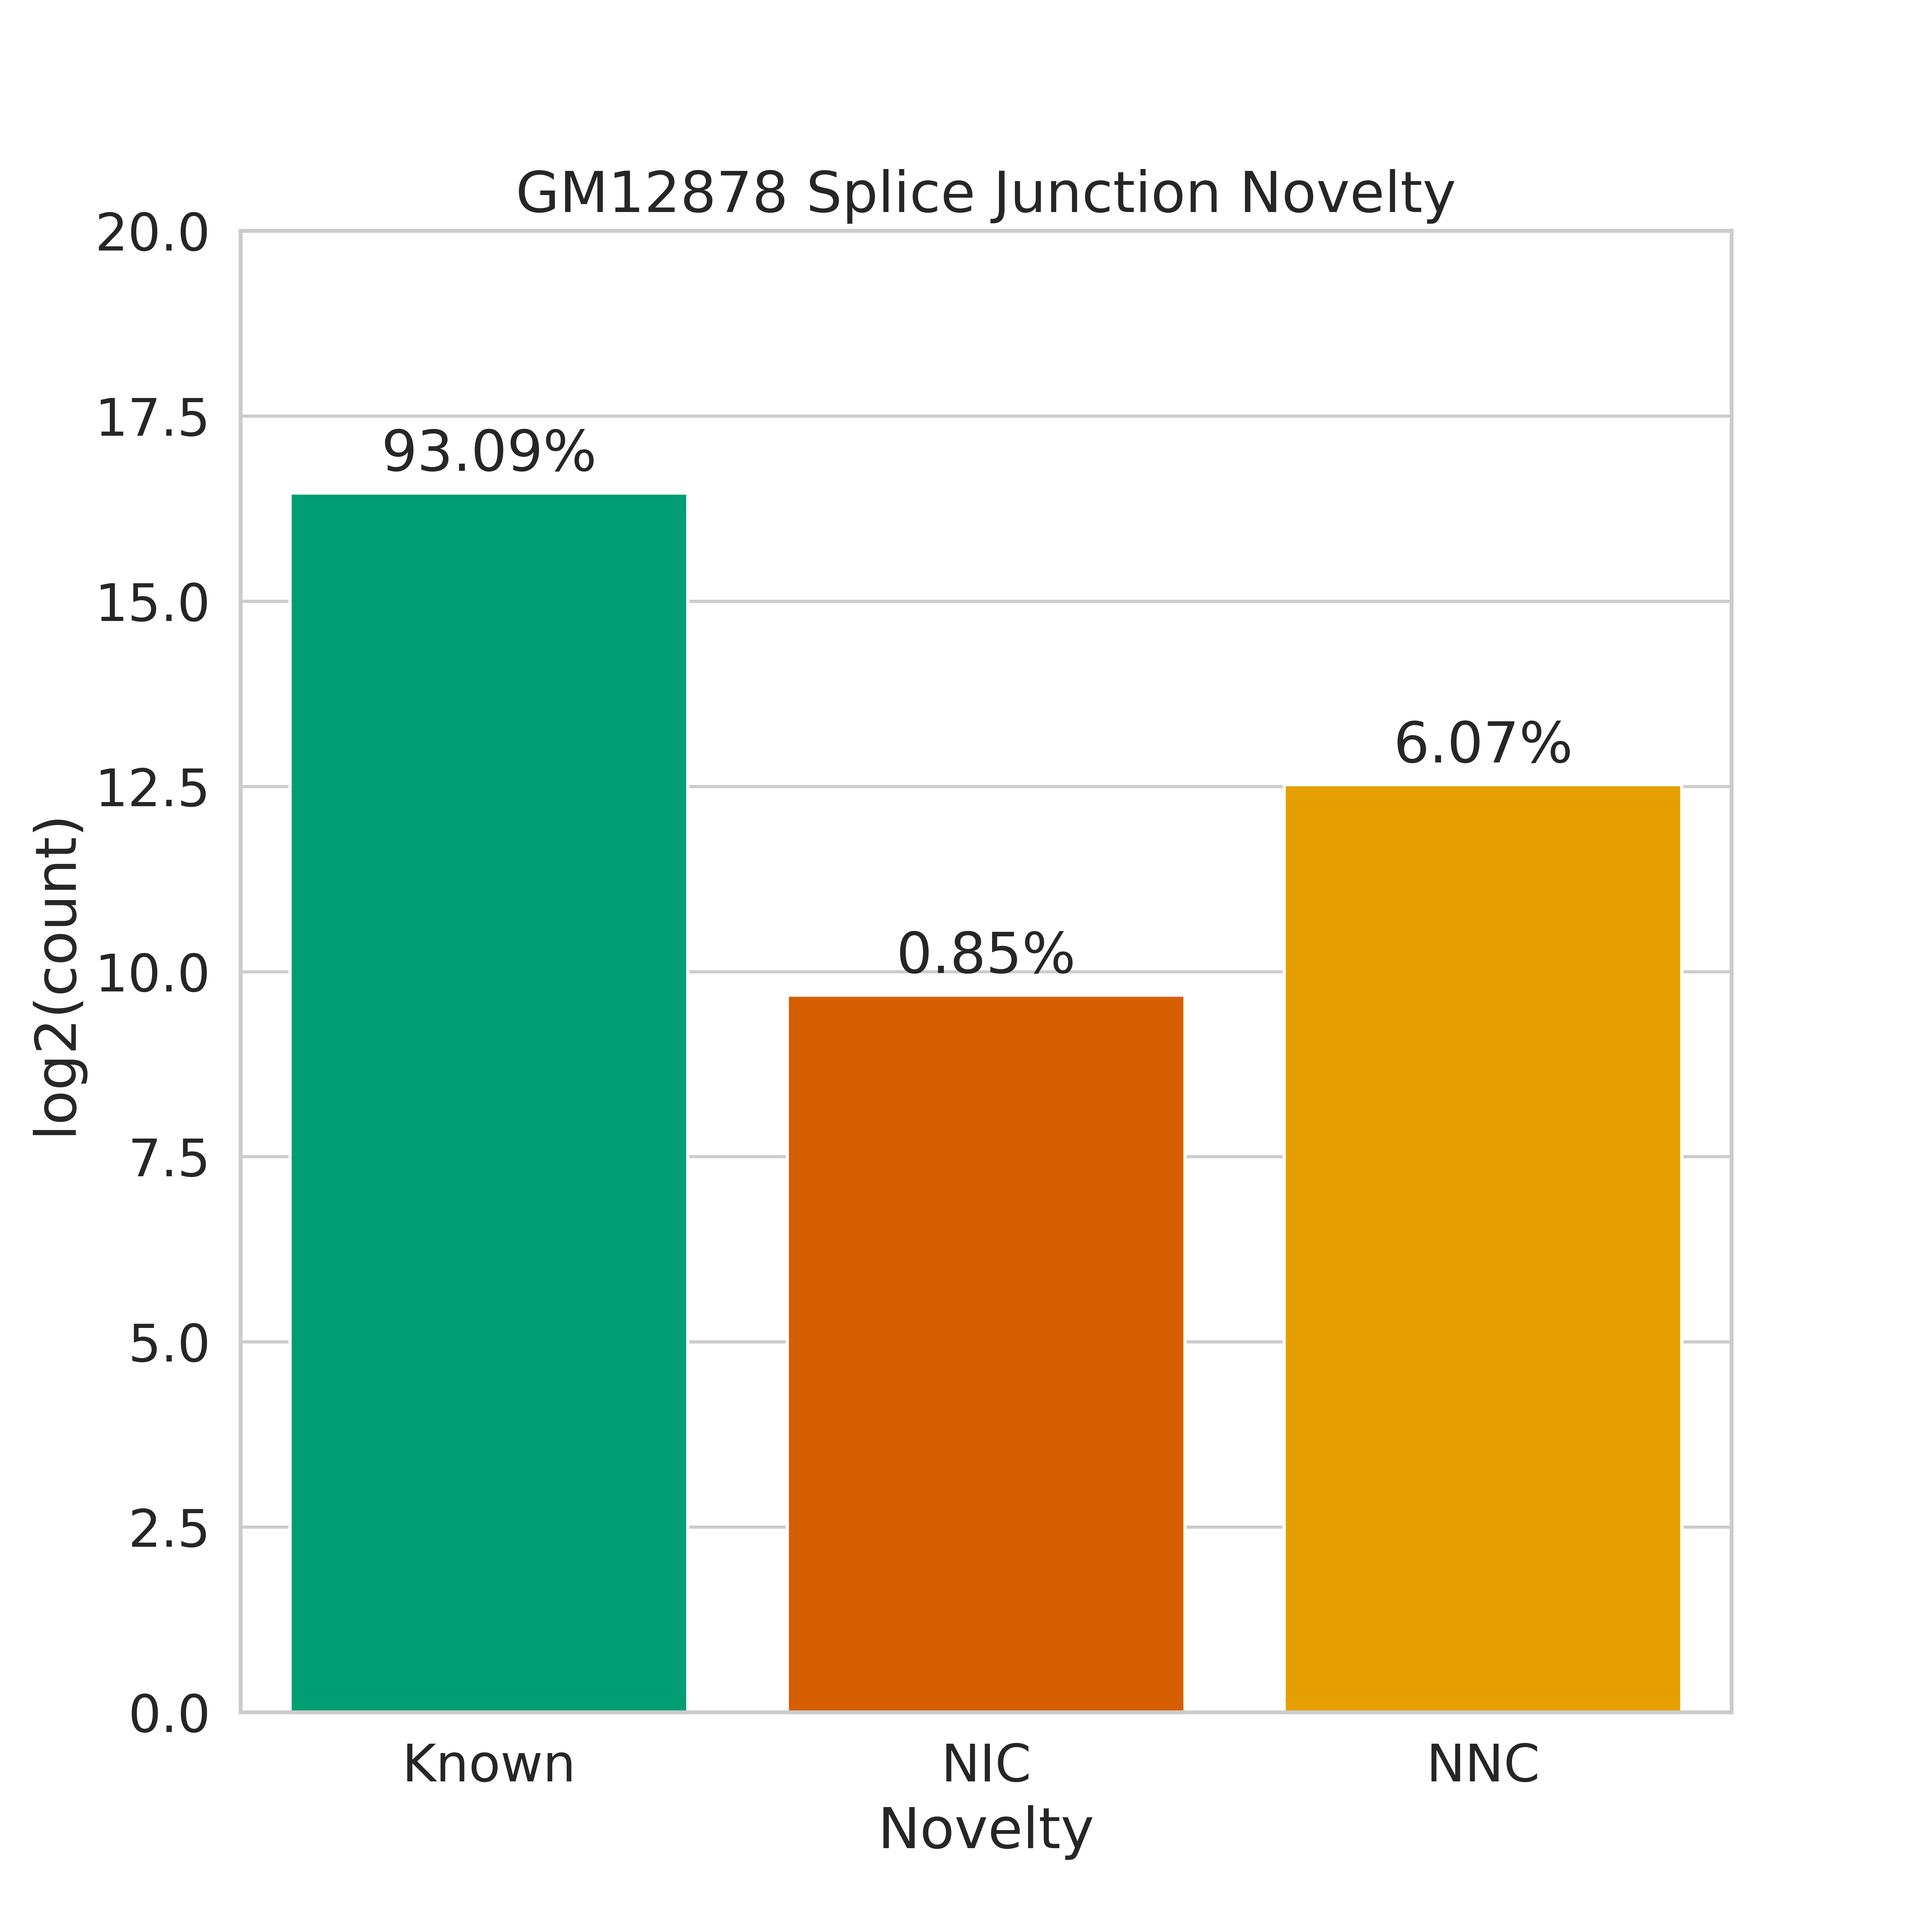
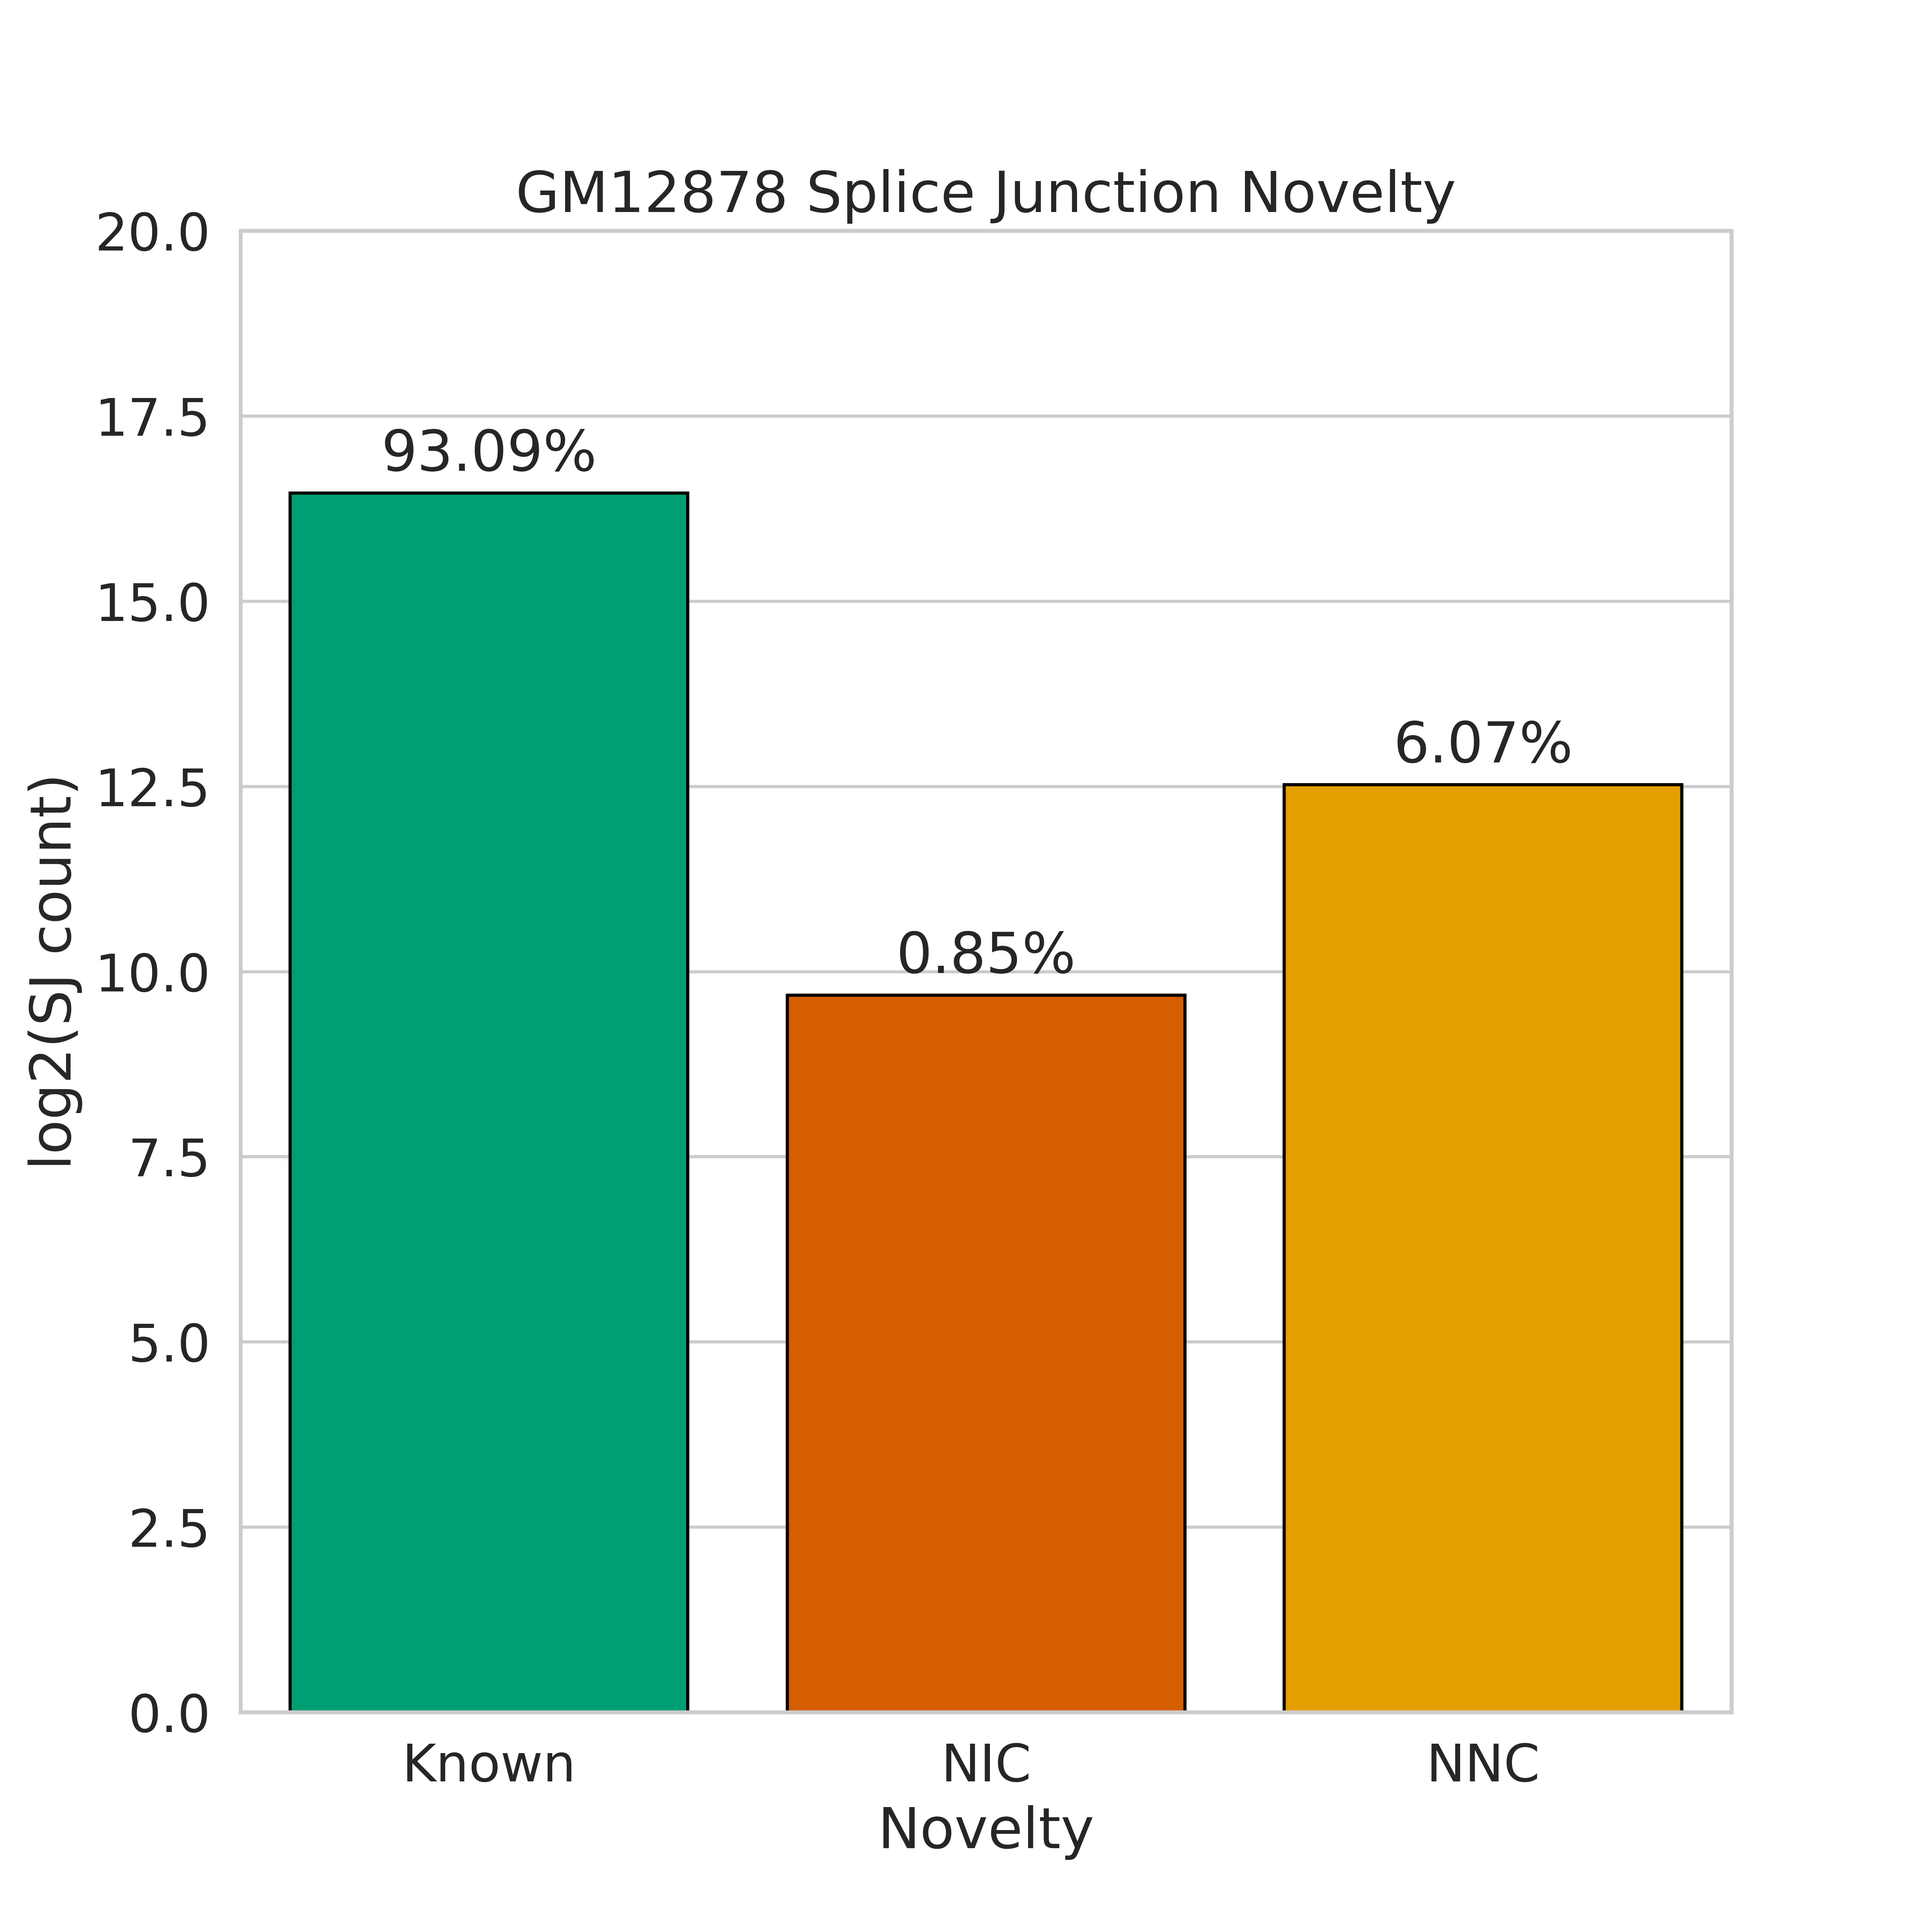
added % illumina support for novel sjs and associated code, readme, and figs

Changed region(s): [[0.0, 0.4053, 0.0624, 0.5924]]

diff --git a/analysis_scripts/compare_sjs/plot_sj_novelty_counts.py b/analysis_scripts/compare_sjs/plot_sj_novelty_counts.py
@@ -15,6 +15,10 @@ def get_args():
 		help = 'Splice junction file to label SJ novelty')
 	parser.add_argument('-sample', dest='sample_name', 
 		help = 'Sample name ie GM12878')
+	parser.add_argument('--extra_support', dest='extra_file', default=None, 
+		help = 'Splice junction file to compare to for extra support')
+	parser.add_argument('--support_name', dest='sup_name', default=None,
+		help = 'Type of extra support, ie. Illumina')
 
 	args = parser.parse_args()
 	return args
@@ -26,17 +30,29 @@ def read_sj_file(infile):
 		 usecols=[9,10])
 	return df
 
-def main():
+def read_sjs_sj_file(infile):
+  
+	df = pd.read_csv(infile, sep='\t',
+		 names=['chrom', 'start', 'stop', 'strand', 
+		   		'novelty', 'NNC_type'],
+		 usecols=[0,1,2,3,9,10])
+	return df
 
-	args = get_args()
+def intersect_extra_support(df1, df2):
 
-	df = read_sj_file(args.sj_file)
+	# add columns for supported by second set of sjs
+	temp = df1.merge(df2, on=['chrom', 'start', 'stop', 'strand',
+							  'novelty', 'NNC_type'])
 
-	# get known, NIC, and NNC counts
-	known_count = len(df.loc[df.novelty == 'Known'].index)
-	nic_count = len(df.loc[df.novelty == 'NIC'].index)
-	nnc_count = len(df.loc[df.novelty == 'NNC'].index)
+	known_count = len(temp.loc[temp.novelty == 'Known'])
+	nic_count = len(temp.loc[temp.novelty == 'NIC'])
+	nnc_count = len(temp.loc[temp.novelty == 'NNC'])
+	
 	counts = [known_count, nic_count, nnc_count]
+
+	return counts
+
+def vanilla_plot(counts, args):
 
 	# collapse df to one we can use with seaborn
 	nov_counts = pd.DataFrame(data=counts, columns=['Count'], 
@@ -49,7 +65,6 @@ def main():
 		lambda x: math.log2(x.Count), axis=1)
 	nov_counts['percent'] = nov_counts.apply(
 		lambda x: 100*(float(x.Count)/sum(counts)), axis=1)
-	# add illumina support/unsupport columns here to use for stacked bar later!
 
 	# color palette
 	green = "#009E73"
@@ -62,8 +77,9 @@ def main():
 	sns.set(font_scale=1.5, style="whitegrid")
 	order = ['Known', 'NIC', 'NNC']
 	ax = sns.barplot(x='Novelty', y='log2(count)', data=nov_counts,
-					 palette=colors, saturation=1, order=order)
+					 palette=colors, saturation=1, order=order, edgecolor='black')
 	plt.ylim(0, 20)
+	ax.set_ylabel("log2(SJ count)")
 	plt.title(args.sample_name+' Splice Junction Novelty')
 	for ntype, p in zip(order, ax.patches):
 		height = p.get_height()
@@ -74,5 +90,85 @@ def main():
 
 	plt.savefig('figures/'+args.sample_name.replace(' ','_')+'_sj_novelty.pdf')
 	plt.savefig('figures/'+args.sample_name.replace(' ','_')+'_sj_novelty.png', dpi = 600)
+
+def extra_support_plot(counts, sup_counts, args):
+
+	# get no. unsupported sjs 
+	unsup_counts = [counts[i] - sup_counts[i] for i in range(len(counts))]
+
+	# collapse df to one we can use with seaborn
+	nov_counts = pd.DataFrame(data=counts, columns=['Count'], 
+		index=['Known', 'NIC', 'NNC'])
+	nov_counts.reset_index(inplace=True)
+	nov_counts.rename({'index': 'Novelty'}, inplace=True, axis=1)
+	nov_counts['Supported Count'] = sup_counts
+	nov_counts['Unsupported Count'] = unsup_counts
+
+
+	# add aesthetics-related columns
+	nov_counts['log2(count)'] = nov_counts.apply(
+		lambda x: math.log2(x.Count), axis=1)
+	nov_counts['percent'] = nov_counts.apply(
+		lambda x: 100*(float(x['Supported Count'])/x.Count), axis=1)
+	nov_counts['log2(supported count)'] = nov_counts.apply(
+		lambda x: (x.percent/100)*x['log2(count)'], axis=1)
+
+	# color palette
+	green = "#009E73"
+	orange = "#D55E00"
+	gold = "#E69F00"
+	colors = [green, orange, gold]
+
+	# plotting
+	plt.figure(figsize=(8.5,8.5))
+	sns.set(font_scale=1.5, style="whitegrid")
+	order = ['Known', 'NIC', 'NNC']
+
+	sns.barplot(x='Novelty', y='log2(count)', data=nov_counts, 
+		color='white', order=order, edgecolor='black')
+	bottom_plot = sns.barplot(x='Novelty', y='log2(supported count)', 
+		data=nov_counts, palette=colors, saturation=1, order=order,
+		edgecolor='black')
+
+	topbar = plt.Rectangle((0,0),1,1,fc='white', edgecolor='black')
+	bottombar = plt.Rectangle((0,0),1,1,fc='#0000A3',  edgecolor='black')
+
+	plt.ylim(0, 20)
+	plt.title('{} Splice Junction Novelty with {} Support'.format(args.sample_name,
+		args.sup_name))
+	bottom_plot.set_ylabel("log2(SJ count)")
+	for ntype, p in zip(order, bottom_plot.patches):
+		height = p.get_height()
+		bottom_plot.text(p.get_x()+p.get_width()/2.,
+				height + .3,
+				'{:1.2f}%'.format(nov_counts.loc[nov_counts.Novelty == ntype]['percent'].values[0]),
+				ha="center")
+
+	plt.savefig('figures/'+args.sample_name.replace(' ','_')+'_sj_novelty_{}_support.pdf'.format(args.sup_name))
+	plt.savefig('figures/'+args.sample_name.replace(' ','_')+'_sj_novelty_{}_support.png'.format(args.sup_name), dpi = 600)
+
+def main():
+
+	args = get_args()
+
+	df = read_sj_file(args.sj_file)
+
+	# extra support 
+	if args.extra_file:
+		main_df = read_sjs_sj_file(args.sj_file)
+		extra_df = read_sjs_sj_file(args.extra_file)
+
+		# get counts supported by extra sj file
+		sup_counts = intersect_extra_support(main_df, extra_df)
+
+	# get known, NIC, and NNC counts
+	known_count = len(df.loc[df.novelty == 'Known'].index)
+	nic_count = len(df.loc[df.novelty == 'NIC'].index)
+	nnc_count = len(df.loc[df.novelty == 'NNC'].index)
+	counts = [known_count, nic_count, nnc_count]
+
+	# plot whichever thing we want
+	if args.extra_file: extra_support_plot(counts, sup_counts, args)
+	else: vanilla_plot(counts, args)
 
 if __name__ == '__main__': main()

diff --git a/analysis_scripts/compare_sjs/README.md b/analysis_scripts/compare_sjs/README.md
@@ -142,7 +142,19 @@ python label_sj_novelty.py \
 	-ref_sj gencode_v29_sjs.tab 
 ```
 
-5. Look at NNC makeup with finer resolution, are both the donor and acceptor completely novel or is has one or the other been seen before?
+5. Let's see what percentage of novel splice junctions are supported by Illumina data. 
+```
+python plot_sj_novelty_counts.py \
+	-sj pb_talon_GM12878_sjs_novelty.tab \
+	-sample GM12878 \
+	--extra_support GM12878_alignedSJ.out_novelty.tab \
+	--support_name Illumina
+```
+
+<img align="left" width="500" src="figures/GM12878_sj_novelty_Illumina_support.png">
+
+
+6. Look at NNC makeup with finer resolution, are both the donor and acceptor completely novel or is has one or the other been seen before?
 ```
 # coming soon
 ```
